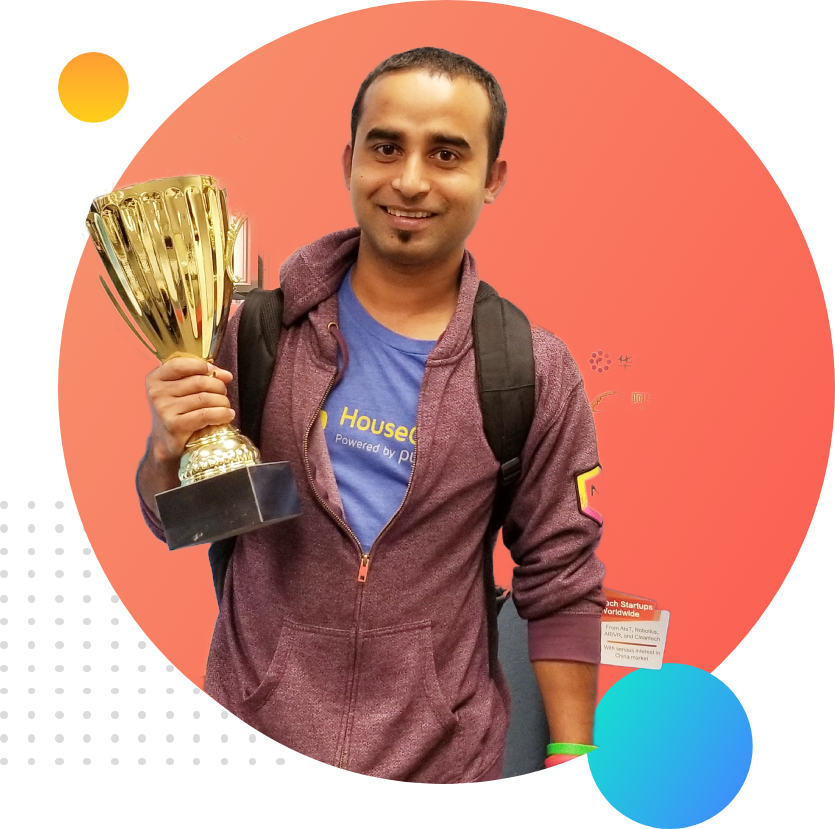
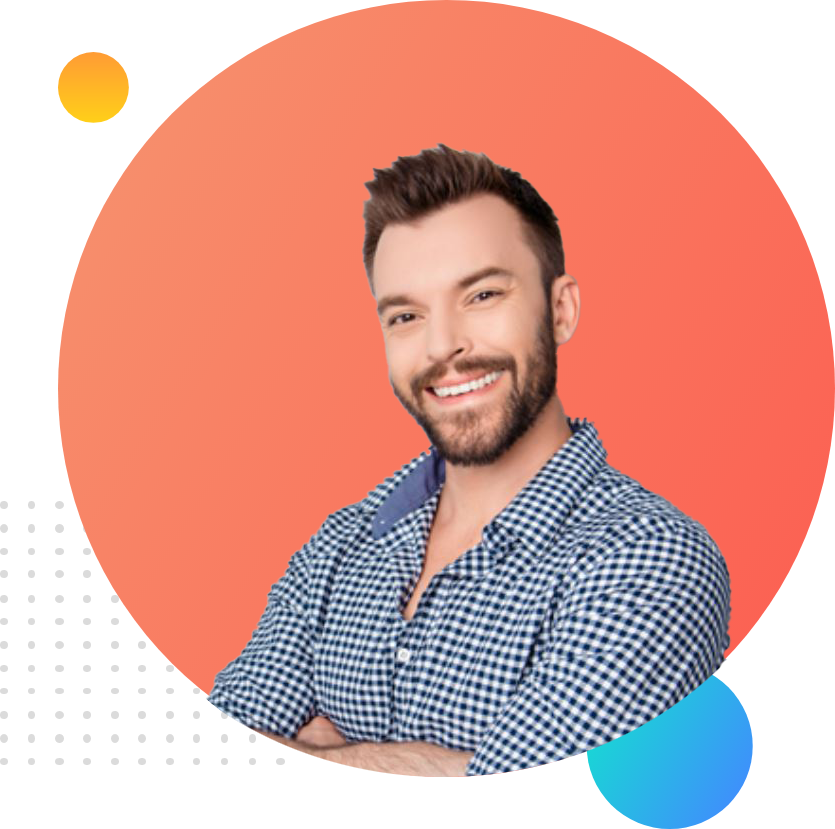
finished my first portfolio website

diff --git a/index.html b/index.html
@@ -9,20 +9,62 @@
 </head>
 
 <body>
-                                                    <!--Section 1/3-->>
-    <section>
+                                                    <!--Section 1/3-->
+    <section class="top-banner">
         <div class="half-width">
             <h1>Welcome To</h1>
-            <h1> <span class="orange-highlight">Muhammad Salahuddin</span>       Website</h1>
+            <h1> <span class="highlightname">Salahuddin's </span>       Website</h1>
             <h3>World-class professional webdeveloper</h3>
             <p> I'm a Front-End Developer for DeshTech in Dhaka, Bangladesh.
             I have serious passion for UI effects, animations and creating intuitive, dynamic user experiences.</p>
+                                            
+                                            <!--Button-Link-->
+            <a class="link-button" target="_blank" href="https://www.linkedin.com/in/salahudd1n">HIRE ME</a>
         </div>
-
+                                            <!--image-->
         <div class="half-width">
             <img src="images/jhankar.png" alt="a picture of Jhankar Mahbub with toffy">
         </div>
     </section>
     
+
+                                                                        <!--Section 2/3-->
+    <section class="second-top-banner">
+        <div class="second-half-width">
+            <img src="images/jhankar2.png" alt="jhankar2">
+        </div>
+       
+        <div class="second-half-width">
+            <h2>Big Dream</h2>
+            <h3>World's Number One Developer</h3>
+            <p>i already learned the basic HTML and CSS build any simple website. I can even teach my grandma how to make simple website. My goal is to build 3 websites and learn advanced topics.</p>
+            
+            <a class="second-link-button" target="_blank" href="https://www.linkedin.com/in/salahudd1n">LINKEDIN</a>
+        </div>
+    </section>
+
+                                                                        <!--Third Section-->
+    <section class="exprience-area">
+        <h2 class="expriences">Experiences</h2>
+        <div class="half-width boxshadow" id="colorfullborderline">
+            <h2>Full stack Web Developer</h2>
+            <h3>2021-Present | Pro Level Developer</h3>
+            <p>I am the master of HTML, CSS and Javascript. I know everyting needed to make a website function, efficient, i didn't stop with the web. I went beyond with most popular Javascript framework called Vue JS. I even know the deployment, server and security. I will give you 100% web solution</p>
+
+        </div>
+
+        <div class="half-width boxshadow" id="bluecolorfullborderline">
+            <h2>Baby Web Developer</h2>
+            <h3>2020-2021 Programming Hero Learner</h3>
+
+            <p>They didn't offer me a job. But I made myself as a remove web developer. I made their website and showed it to them. They liked it. And uploaded the content. It was fun working at Programming Hero.</p>
+
+        </div>
+    </section>
+
+    <footer>
+        <p class="footertext"> © Salahuddin 2021, all rights reserved.</p>
+    </footer>
+
 </body>
 </html>

diff --git a/style.css b/style.css
@@ -1,23 +1,144 @@
 body {
     font-family: 'Cinzel', serif;
     font-family: 'DM Sans', sans-serif;
+    margin: 0px;
+    padding: 0px;
 }
 
 h1 {
-    font-size: 50px;
+    font-size: 40px;
+}
+
+h2 {
+    font-size: 40px;
+}
+
+h3 {
+    color: orange;
+}
+
+
+p {
+    color: dimgray;
+    text-align: justify ;
+
+}
 }
 
 .orange-highlight {
-    color: orange;
+    color: rgb(241, 162, 15);
+}
+.highlightname {
+    color: tomato;
 }
 
 .half-width {
 	width: 40%;
-	float:left;
-	margin-left: 5px;
-	padding-left: 2%;
+    float:left;
+	margin-left: 40px;
+    padding-left: 2%;
+   
 }
 
 .half-width img {
-    width: 100%;
+    width: 80%;
+    margin-left: 40px;
+    margin-top: 60px;
+}
+
+.top-banner {
+    background-image: url(images/top-banner.png);
+    background-repeat: no-repeat;
+}
+
+section {
+    height: 500px;
+    padding-bottom: 170px ;
+}
+
+
+.link-button {
+    text-decoration: none;
+    background-image: linear-gradient(45deg, lightsalmon, tomato);
+    margin: 0px;
+    padding: 10px 20px;
+    border-radius: 10px; 
+    color: seashell;
+    font-weight: 700;
+    
+}
+
+.second-link-button {
+    text-decoration: none;
+    background-image: linear-gradient(45deg, lightsalmon, tomato);
+    margin: 0px;
+    padding: 10px 20px;
+    border-radius: 10px; 
+    color: seashell;
+    font-weight: 700;
+    
+}
+
+/* second_section */
+
+.second-half-width {
+    width: 40%;
+    float:left;
+	margin-left: 50px;
+    padding-left: 2%;
+}
+
+.second-half-width img {
+    width: 80%;
+}
+
+.second-top-banner {
+    background-image: url(images/dream-bg.png);
+    background-repeat: no-repeat;
+    background-position: right;
+}
+
+/* box style*/
+
+.boxshadow {
+    box-shadow: 10px 10px 35px gray;
+    height: 60%;
+    border-radius: 5px;
+    padding-right: 20px;
+}
+
+.expriences {
+    margin-left: 40px;
+}
+
+.exprience-area {
+    background-image: url(images/exp-bg.png);
+    background-repeat: no-repeat;
+    background-position: left;
+    background-size: 5%;
+   
+}
+
+#colorfullborderline {
+    border-left: 7px solid;
+    border-image: linear-gradient(180deg, orange, tomato);
+    border-image-slice: 2;
+    background-color: whitesmoke;
+}
+
+#bluecolorfullborderline {
+    border-left: 7px solid;
+    border-image: linear-gradient(1800deg, blue, lightblue);
+    border-image-slice: 2;
+}
+
+footer {
+    margin: 0;
+    padding: 0;
+}
+
+.footertext {
+    text-align: center;
+    font-size: 12px;
+    padding: 0;
 }
